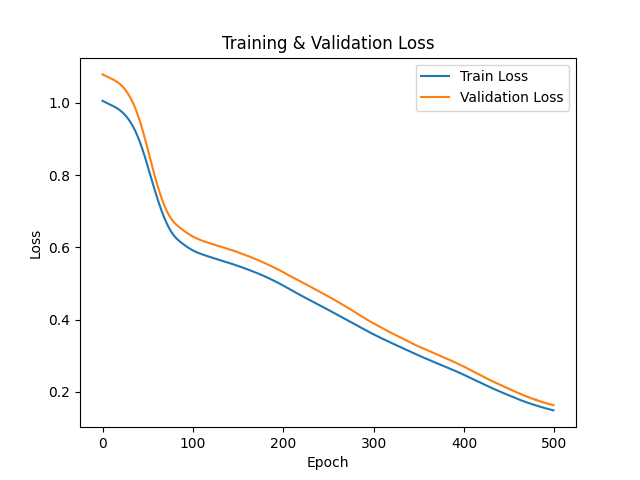
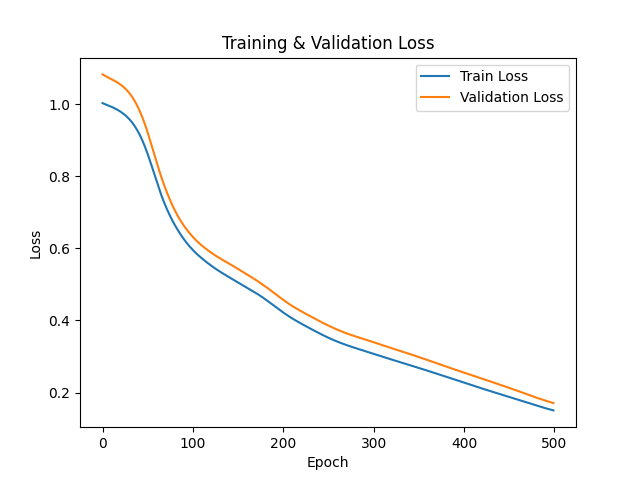
Add correlation_matrix of features before I drop them

diff --git a/src/evaluate.py b/src/evaluate.py
@@ -2,6 +2,7 @@
 import torch
 import torch.nn as nn
 import numpy as np
+from src.data_utils import fit_scaler, transform_dataset, to_tensor
 
 
 def evaluate_model(model, x_test, y_test):
@@ -9,23 +10,35 @@ def evaluate_model(model, x_test, y_test):
     model.eval()
 
     # reshape targets
-    y_test = y_test.view(-1, 1)
-
+    # y_test = y_test.view(-1, 1)
+    # y_scaler = fit_scaler(y_test)
+    # y_test = transform_dataset(y_test, y_scaler)
     with torch.no_grad():
 
         predictions = model(x_test)
 
-        mse_loss = nn.MSELoss()
-        mse = mse_loss(predictions, y_test).item()
+        # # convert to numpy
+        # predictions = predictions.detach().numpy()
 
-        # rmse = np.sqrt(mse)
+        # # convert back to original bike counts
+        # predictions = y_scaler.inverse_transform(predictions)
+
+        # # same for true values
+        # y_test = y_scaler.inverse_transform(y_test)
+
+        # y_test = torch.tensor(y_test, dtype=torch.float32)
+        # pred = torch.tensor(pred, dtype=torch.float32)
+        mse_loss = nn.MSELoss()
+        mse = mse_loss(y_test, predictions)
+
+        rmse = np.sqrt(mse)
 
         # mae = torch.mean(torch.abs(predictions - y_test)).item()
 
     print("Evaluation Results")
     print("------------------")
-    print(f"MSE  : {mse:.4f}")
-    # print(f"RMSE : {rmse:.4f}")
+    # print(f"MSE  : {mse:.4f}")
+    print(f"RMSE : {rmse:.4f}")
     # print(f"MAE  : {mae:.4f}")
 
     return mse

diff --git a/src/train.py b/src/train.py
@@ -3,8 +3,6 @@ import torch.nn as nn
 
 def train_model(model, x_train, y_train, x_valid, y_valid):
 
-    y_train = y_train.view(-1,1)
-    y_valid = y_valid.view(-1,1)
 
     loss_fn = nn.MSELoss()
     optimizer = torch.optim.Adam(model.parameters(), lr=0.001)
@@ -21,7 +19,7 @@ def train_model(model, x_train, y_train, x_valid, y_valid):
 
         y_pred = model(x_train)
 
-        loss = loss_fn(y_pred, y_train)
+        loss = loss_fn(y_train, y_pred)
 
         optimizer.zero_grad()
         loss.backward()
@@ -34,12 +32,16 @@ def train_model(model, x_train, y_train, x_valid, y_valid):
 
             y_val_pred = model(x_valid)
 
-            val_loss = loss_fn(y_val_pred, y_valid)
+            val_loss = loss_fn(y_valid, y_val_pred)
 
         train_losses.append(loss.item())
         valid_losses.append(val_loss.item())
 
         if epoch % 20 == 0:
-            print(f"Epoch {epoch} | Train Loss: {loss.item():.4f} | Valid Loss: {val_loss.item():.4f}")
+            # print("Training prediction: ", y_pred)
+            # print("Training Actual : ", y_train)
+            # print('Valid Prediction: ', y_val_pred)
+            # print('Valid Actual: ', y_valid)
+            print(f"Epoch {epoch} | Train MSE: {loss.item():.4f} | Valid MSE: {val_loss.item():.4f}")
 
     return train_losses, valid_losses

diff --git a/main.py b/main.py
@@ -1,6 +1,6 @@
 
 import pandas as pd
-from src.data_preprocessing import split_data, split_features_target
+from src.data_preprocessing import show_correlation_matrix, load_data, drop_features, split_data, split_features_target
 from src.data_utils import fit_scaler, transform_dataset, to_tensor
 from src.model import RegressionANN
 from src.train import train_model
@@ -8,10 +8,9 @@ from src.evaluate import evaluate_model
 import torch
 
 # Load data
-df = pd.read_csv('./data/hour.csv')
-
-# Drop unnecessary columns
-df = df.drop(['instant', 'dteday', 'casual', 'registered'], axis=1)
+df = load_data('./data/hour.csv')
+show_correlation_matrix(df)
+df = drop_features(df)
 
 # Split into train, validation, test
 train_df, valid_df, test_df = split_data(df)
@@ -31,10 +30,12 @@ y_test = y_test.reshape(-1, 1)
 scaler = fit_scaler(X_train)
 y_scaler = fit_scaler(y_train)
 
+# Transform all targets/Labels
 y_train = transform_dataset(y_train, y_scaler)
 y_valid = transform_dataset(y_valid, y_scaler)
 y_test = transform_dataset(y_test, y_scaler)
 
+# Transform all features
 X_train = transform_dataset(X_train, scaler)
 X_valid = transform_dataset(X_valid, scaler)
 X_test = transform_dataset(X_test, scaler)

diff --git a/src/data_preprocessing.py b/src/data_preprocessing.py
@@ -1,18 +1,38 @@
-
+import os
 import pandas as pd
 import numpy as np
+import seaborn as sns
+import matplotlib.pyplot as plt
 
+
+
+def show_correlation_matrix(df):
+    df = df.drop(['dteday'], axis=1)
+    corr = df.corr()
+
+    plt.figure(figsize=(14,10))
+    sns.heatmap(corr, annot=True, cmap="coolwarm", fmt=".2f")
+    plt.title("Correlation Matrix of Bike Sharing Dataset")
+    # Get project root directory
+    base_dir = os.path.dirname(os.path.dirname(os.path.abspath(__file__)))
+
+    results_dir = os.path.join(base_dir, "results")
+
+    os.makedirs(results_dir, exist_ok=True)
+    save_path = os.path.join(results_dir, "correlation_matrix.png")
+    plt.savefig(save_path)
+    plt.close()
 
 def load_data(file_path):
     """
     Load dataset and remove unused columns
     """
     df = pd.read_csv(file_path)
-
-    df = df.drop(['instant', 'dteday', 'casual', 'registered'], axis=1)
-
     return df
 
+def drop_features(df):
+    df = df.drop(['instant', 'dteday', 'casual', 'registered'], axis=1)
+    return df
 
 def split_data(df):
     """
